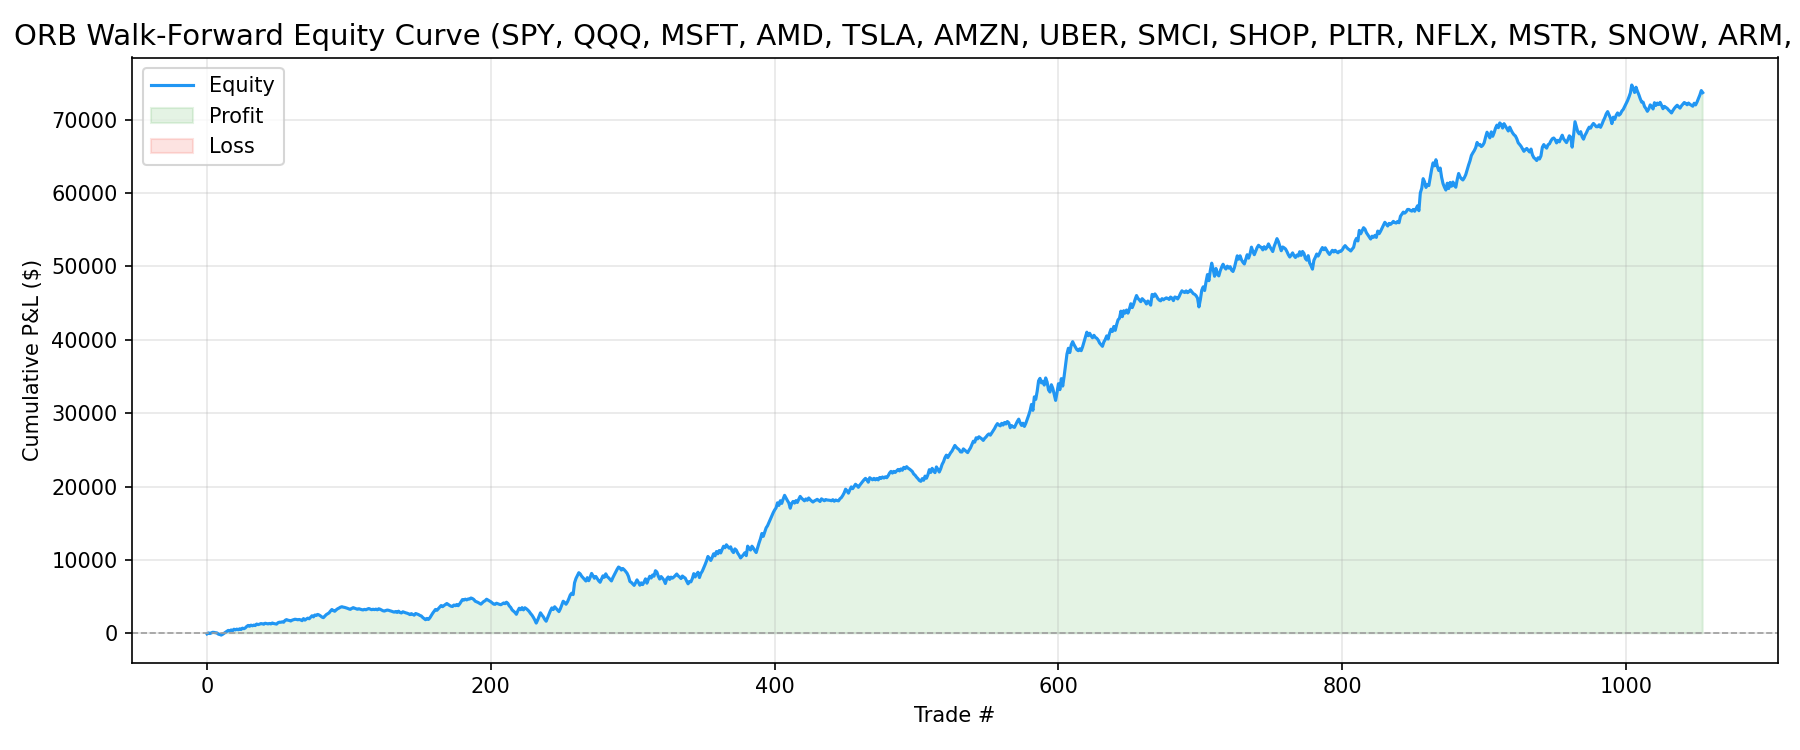
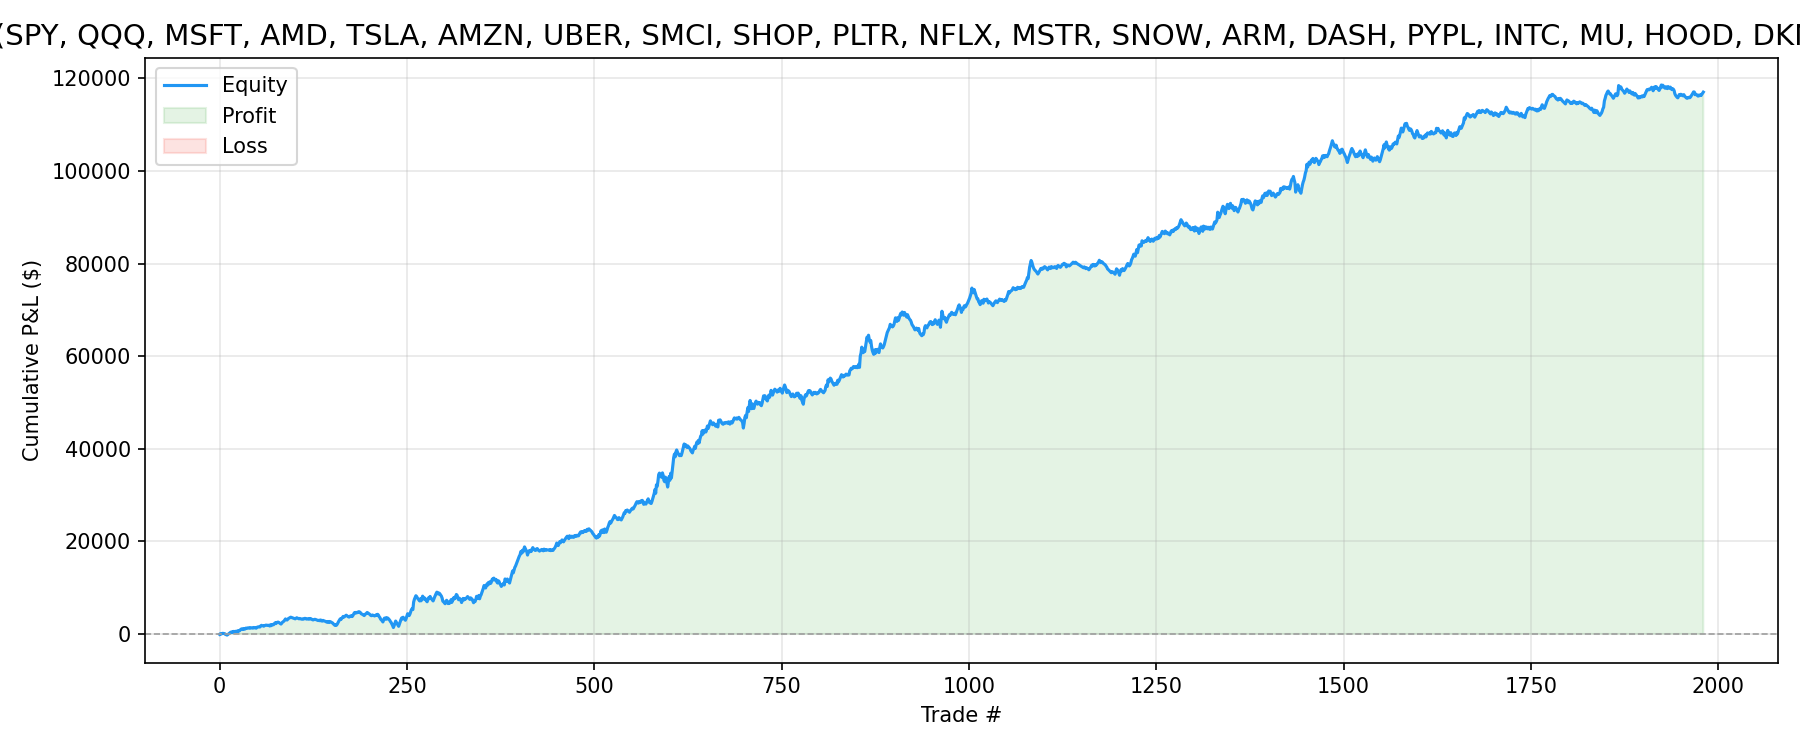
feat: expand ticker universe to 26 — adds PYPL, INTC, MU, HOOD, DKNG, SOXL, ROKU, TQQQ, BA, MRVL, META — PF 1.423, Sharpe 2.270, K net, 1981 trades

diff --git a/src/config.py b/src/config.py
@@ -73,6 +73,7 @@ class AppSettings(BaseSettings):
     db_path: str = Field(default="data/spy_signals.db", description="Path to SQLite database")
     symbols: list[str] = Field(
         default=[
+            # ── Original 15 ──────────────────────────────────────────────
             "SPY",
             "QQQ",
             "MSFT",
@@ -88,6 +89,18 @@ class AppSettings(BaseSettings):
             "SNOW",
             "ARM",
             "DASH",
+            # ── Expansion (added 2026-03-16) ─────────────────────────────
+            "PYPL",
+            "INTC",
+            "MU",
+            "HOOD",
+            "DKNG",
+            "SOXL",  # 3x leveraged semiconductor ETF
+            "ROKU",
+            "TQQQ",  # 3x leveraged Nasdaq-100 ETF
+            "BA",
+            "MRVL",
+            "META",
         ],
         description="Ticker symbols to trade (comma-separated in .env)",
     )

diff --git a/scripts/run_backtest.py b/scripts/run_backtest.py
@@ -82,8 +82,8 @@ def _parse_args() -> argparse.Namespace:
     parser = argparse.ArgumentParser(description="Walk-forward ORB backtest runner (multi-symbol)")
     parser.add_argument(
         "--symbols",
-        default="SPY,QQQ,MSFT,AMD,TSLA,AMZN,UBER,SMCI,SHOP,PLTR,NFLX,MSTR,SNOW,ARM,DASH",
-        help="Comma-separated list of ticker symbols (default: 15-ticker portfolio)",
+        default="SPY,QQQ,MSFT,AMD,TSLA,AMZN,UBER,SMCI,SHOP,PLTR,NFLX,MSTR,SNOW,ARM,DASH,PYPL,INTC,MU,HOOD,DKNG,SOXL,ROKU,TQQQ,BA,MRVL,META",
+        help="Comma-separated list of ticker symbols (default: 26-ticker portfolio)",
     )
     parser.add_argument(
         "--is-days", type=int, default=60, help="In-sample window days (default: 60)"
